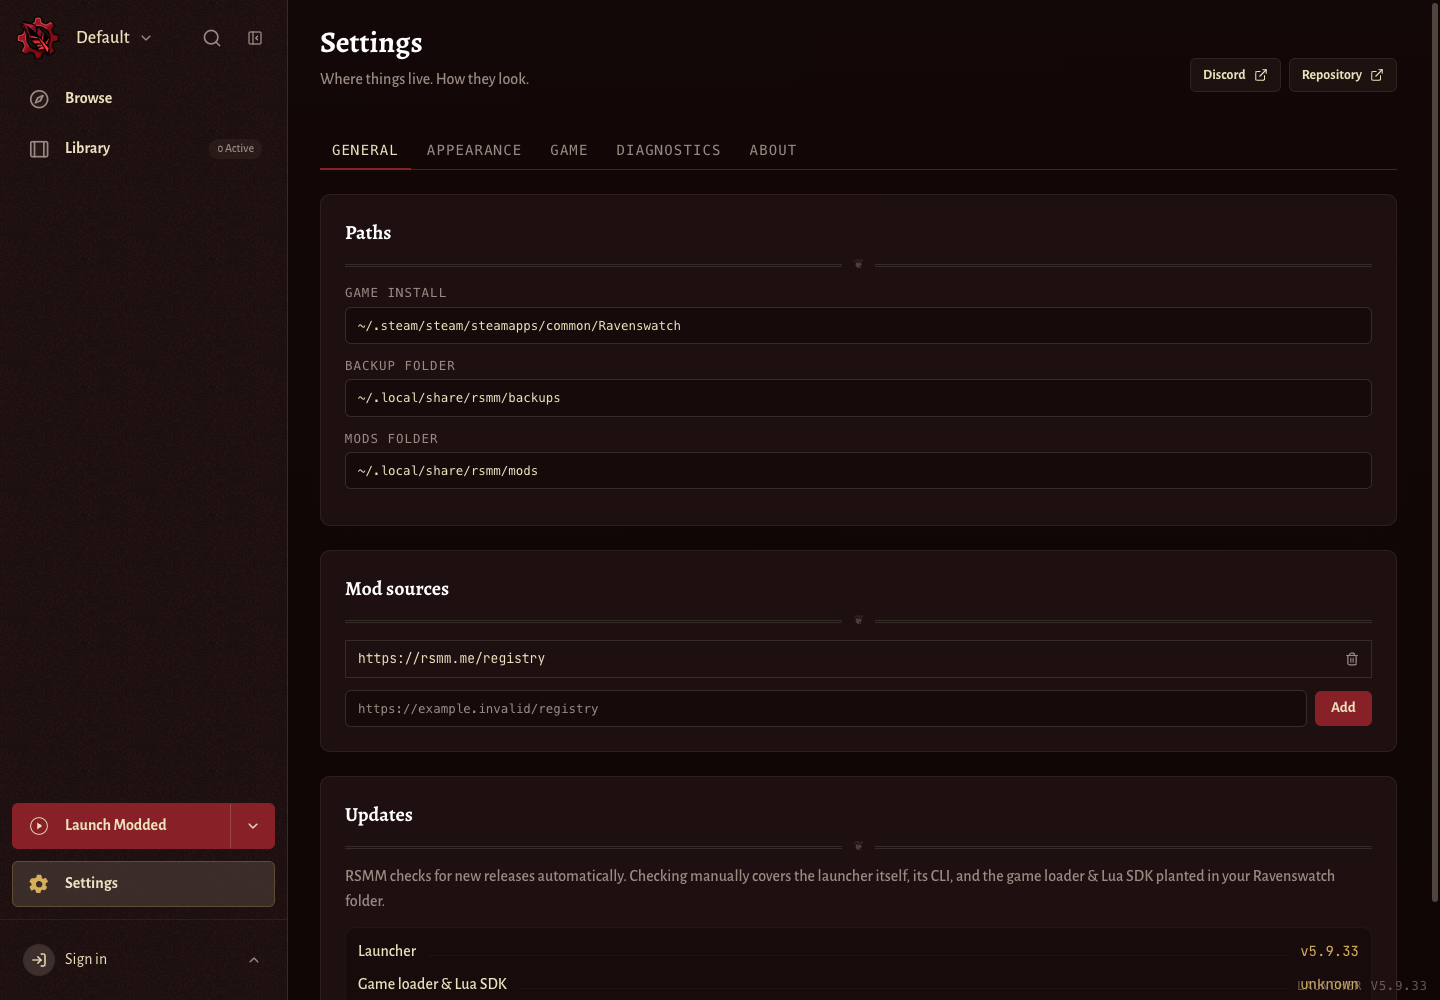
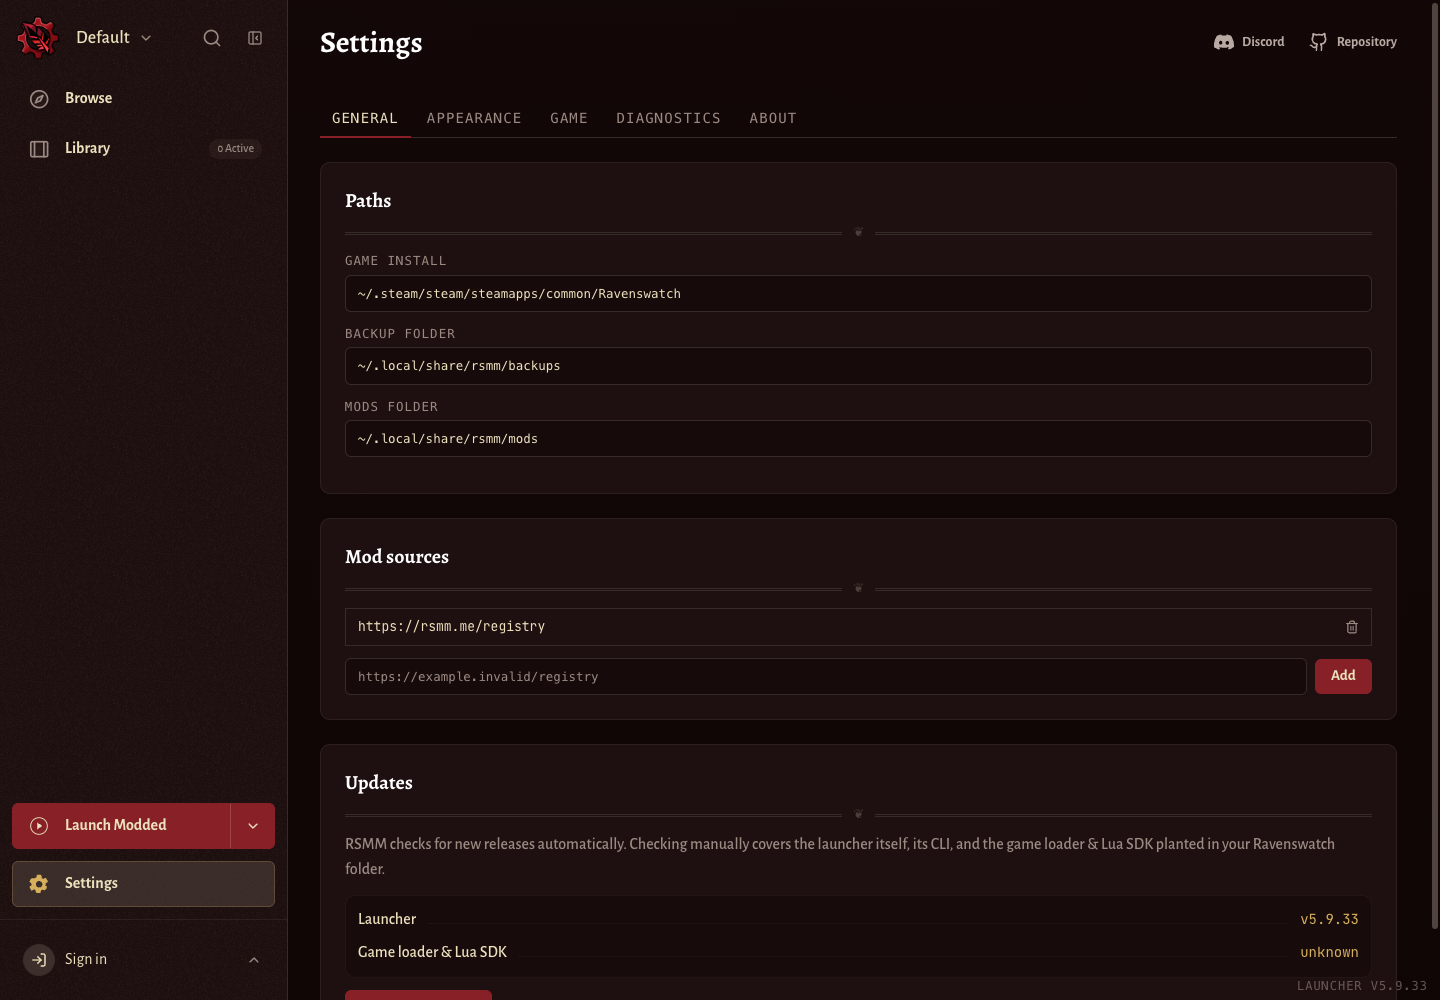
Refine Settings community link styling

diff --git a/apps/desktop/src/routes/signin.tsx b/apps/desktop/src/routes/signin.tsx
@@ -4,6 +4,7 @@ import { openUrl } from '@tauri-apps/plugin-opener';
 import { Github, LogIn, UserPlus } from 'lucide-react';
 import { type FormEvent, useEffect, useState } from 'react';
 import { Button, CopyButton, Panel, SectionHeader } from '../components/chrome';
+import { DiscordIcon } from '../components/icons/DiscordIcon';
 import { describeApiError } from '../lib/api';
 import { getApiUrl } from '../lib/api-url';
 import { authClient, signIn, signUp } from '../lib/auth-client';
@@ -28,18 +29,6 @@ async function fetchAuthConfig(): Promise<AuthConfig> {
   });
   if (!res.ok) throw new Error(`auth-config ${res.status}`);
   return res.json();
-}
-
-function DiscordIcon() {
-  return (
-    <svg viewBox="0 0 24 24" className="h-4 w-4" aria-hidden="true">
-      <title>Discord</title>
-      <path
-        fill="#5865F2"
-        d="M20.317 4.37a19.79 19.79 0 0 0-4.885-1.515.074.074 0 0 0-.079.037c-.21.375-.444.865-.608 1.25a18.27 18.27 0 0 0-5.487 0 12.64 12.64 0 0 0-.617-1.25.077.077 0 0 0-.079-.037A19.74 19.74 0 0 0 3.677 4.37a.07.07 0 0 0-.032.028C.533 9.046-.32 13.58.099 18.058a.082.082 0 0 0 .031.056 19.9 19.9 0 0 0 5.993 3.03.078.078 0 0 0 .084-.028c.462-.63.874-1.295 1.226-1.994a.076.076 0 0 0-.041-.106 13.1 13.1 0 0 1-1.872-.892.077.077 0 0 1-.008-.128c.126-.094.252-.192.372-.291a.074.074 0 0 1 .078-.01c3.928 1.793 8.18 1.793 12.061 0a.074.074 0 0 1 .079.01c.12.098.246.198.373.292a.077.077 0 0 1-.007.127 12.3 12.3 0 0 1-1.873.892.077.077 0 0 0-.041.107c.36.698.772 1.362 1.225 1.993a.076.076 0 0 0 .084.029 19.84 19.84 0 0 0 6.002-3.03.077.077 0 0 0 .032-.054c.5-5.177-.838-9.674-3.549-13.66a.061.061 0 0 0-.031-.03zM8.02 15.331c-1.182 0-2.157-1.085-2.157-2.419 0-1.333.956-2.419 2.157-2.419 1.21 0 2.176 1.096 2.157 2.42 0 1.333-.956 2.418-2.157 2.418zm7.975 0c-1.183 0-2.157-1.085-2.157-2.419 0-1.333.955-2.419 2.157-2.419 1.21 0 2.176 1.096 2.157 2.42 0 1.333-.946 2.418-2.157 2.418z"
-      />
-    </svg>
-  );
 }
 
 function GoogleIcon() {
@@ -249,7 +238,7 @@ function SignInPage() {
                 onClick={() => social('discord')}
                 className="w-full justify-center"
               >
-                <DiscordIcon /> {t('Continue with Discord')}
+                <DiscordIcon className="h-4 w-4 text-[#5865F2]" /> {t('Continue with Discord')}
               </Button>
             ) : null}
             {config.data?.providers.github ? (

diff --git a/apps/desktop/src/routes/settings.tsx b/apps/desktop/src/routes/settings.tsx
@@ -1,17 +1,10 @@
 import { createFileRoute } from '@tanstack/react-router';
 import { invoke } from '@tauri-apps/api/core';
-import {
-  Activity,
-  ChevronDown,
-  ExternalLink,
-  EyeOff,
-  ShieldAlert,
-  Sparkles,
-  Trash2,
-} from 'lucide-react';
+import { Activity, ChevronDown, EyeOff, Github, ShieldAlert, Sparkles, Trash2 } from 'lucide-react';
 import { type KeyboardEvent, useEffect, useMemo, useRef, useState } from 'react';
 import { AboutPanels } from '../components/about-panels';
 import { Button, Fleuron, MonoTag, Panel, SectionHeader } from '../components/chrome';
+import { DiscordIcon } from '../components/icons/DiscordIcon';
 import { useLaunch } from '../components/launch';
 import { useToast } from '../components/toast';
 import { UpdaterSettings } from '../components/updater';
@@ -109,26 +102,26 @@ function SettingsPage() {
     <div className="space-y-6">
       <SectionHeader
         title={t('Settings')}
-        subtitle={t('Where things live. How they look.')}
+        className="items-center"
         right={
-          <div className="flex flex-wrap justify-end gap-2">
+          <div className="flex flex-wrap items-center justify-end gap-6">
             <a
               href="https://discord.gg/dZbsKBWjSF"
               target="_blank"
               rel="noreferrer noopener"
-              className="btn-grim px-3 py-1.5 text-sm"
+              className="inline-flex items-center gap-2 rounded py-1 text-sm font-semibold text-smoke transition-colors duration-150 hover:text-parchment"
             >
+              <DiscordIcon className="h-5 w-5 shrink-0" />
               {t('Discord')}
-              <ExternalLink className="h-3.5 w-3.5" aria-hidden="true" />
             </a>
             <a
               href="https://github.com/Ravenswatch-Modding/RavenswatchModManager"
               target="_blank"
               rel="noreferrer noopener"
-              className="btn-grim px-3 py-1.5 text-sm"
+              className="inline-flex items-center gap-2 rounded py-1 text-sm font-semibold text-smoke transition-colors duration-150 hover:text-parchment"
             >
+              <Github className="h-5 w-5 shrink-0" aria-hidden="true" />
               {t('Repository')}
-              <ExternalLink className="h-3.5 w-3.5" aria-hidden="true" />
             </a>
           </div>
         }

diff --git a/apps/desktop/src/components/icons/DiscordIcon.tsx b/apps/desktop/src/components/icons/DiscordIcon.tsx
@@ -1,0 +1,11 @@
+export function DiscordIcon({ className }: { className?: string }) {
+  return (
+    <svg viewBox="0 0 24 24" className={className} aria-hidden="true">
+      <title>Discord</title>
+      <path
+        fill="currentColor"
+        d="M20.317 4.37a19.79 19.79 0 0 0-4.885-1.515.074.074 0 0 0-.079.037c-.21.375-.444.865-.608 1.25a18.27 18.27 0 0 0-5.487 0 12.64 12.64 0 0 0-.617-1.25.077.077 0 0 0-.079-.037A19.74 19.74 0 0 0 3.677 4.37a.07.07 0 0 0-.032.028C.533 9.046-.32 13.58.099 18.058a.082.082 0 0 0 .031.056 19.9 19.9 0 0 0 5.993 3.03.078.078 0 0 0 .084-.028c.462-.63.874-1.295 1.226-1.994a.076.076 0 0 0-.041-.106 13.1 13.1 0 0 1-1.872-.892.077.077 0 0 1-.008-.128c.126-.094.252-.192.372-.291a.074.074 0 0 1 .078-.01c3.928 1.793 8.18 1.793 12.061 0a.074.074 0 0 1 .079.01c.12.098.246.198.373.292a.077.077 0 0 1-.007.127 12.3 12.3 0 0 1-1.873.892.077.077 0 0 0-.041.107c.36.698.772 1.362 1.225 1.993a.076.076 0 0 0 .084.029 19.84 19.84 0 0 0 6.002-3.03.077.077 0 0 0 .032-.054c.5-5.177-.838-9.674-3.549-13.66a.061.061 0 0 0-.031-.03zM8.02 15.331c-1.182 0-2.157-1.085-2.157-2.419 0-1.333.956-2.419 2.157-2.419 1.21 0 2.176 1.096 2.157 2.42 0 1.333-.956 2.418-2.157 2.418zm7.975 0c-1.183 0-2.157-1.085-2.157-2.419 0-1.333.955-2.419 2.157-2.419 1.21 0 2.176 1.096 2.157 2.42 0 1.333-.946 2.418-2.157 2.418z"
+      />
+    </svg>
+  );
+}

diff --git a/apps/desktop/src/locales/zh-CN.ts b/apps/desktop/src/locales/zh-CN.ts
@@ -803,7 +803,6 @@ export const zhCN: Record<string, string> = {
   "What's new": '更新内容',
   'When the app hits an unexpected error, send the error type, message, stack trace, RSMM version and OS to the RSMM API so it can be fixed. No mod list, no file paths, no account details. Turning this off keeps crashes in your local launcher log only.':
     '当本程序遇到意外错误时，把错误类型、错误信息、堆栈、RSMM 版本和操作系统发送到 RSMM API，以便修复。不含模组列表、文件路径和账户信息。关掉之后，崩溃信息只会留在本地启动器日志里。',
-  'Where things live. How they look.': '各种东西放在哪里，界面又是什么样子。',
   'Which run to read': '要查看哪一次运行',
   'Working…': '处理中…',
   'Write the current profile into the game install without launching.':

diff --git a/apps/desktop/src/components/chrome.tsx b/apps/desktop/src/components/chrome.tsx
@@ -381,11 +381,13 @@ export function SectionHeader({
   subtitle,
   right,
   compact = false,
+  className,
 }: {
   title: string;
   subtitle?: string;
   right?: ReactNode;
   compact?: boolean;
+  className?: string;
 }) {
   return (
     <header
@@ -398,6 +400,7 @@ export function SectionHeader({
         // fires because breakpoints watch the VIEWPORT, not this column.
         'rsmm-section-header flex flex-wrap items-end justify-between gap-x-6 gap-y-3',
         compact ? 'gap-3 pb-2' : 'pb-4',
+        className,
       )}
     >
       <div className="min-w-0 flex-1">
